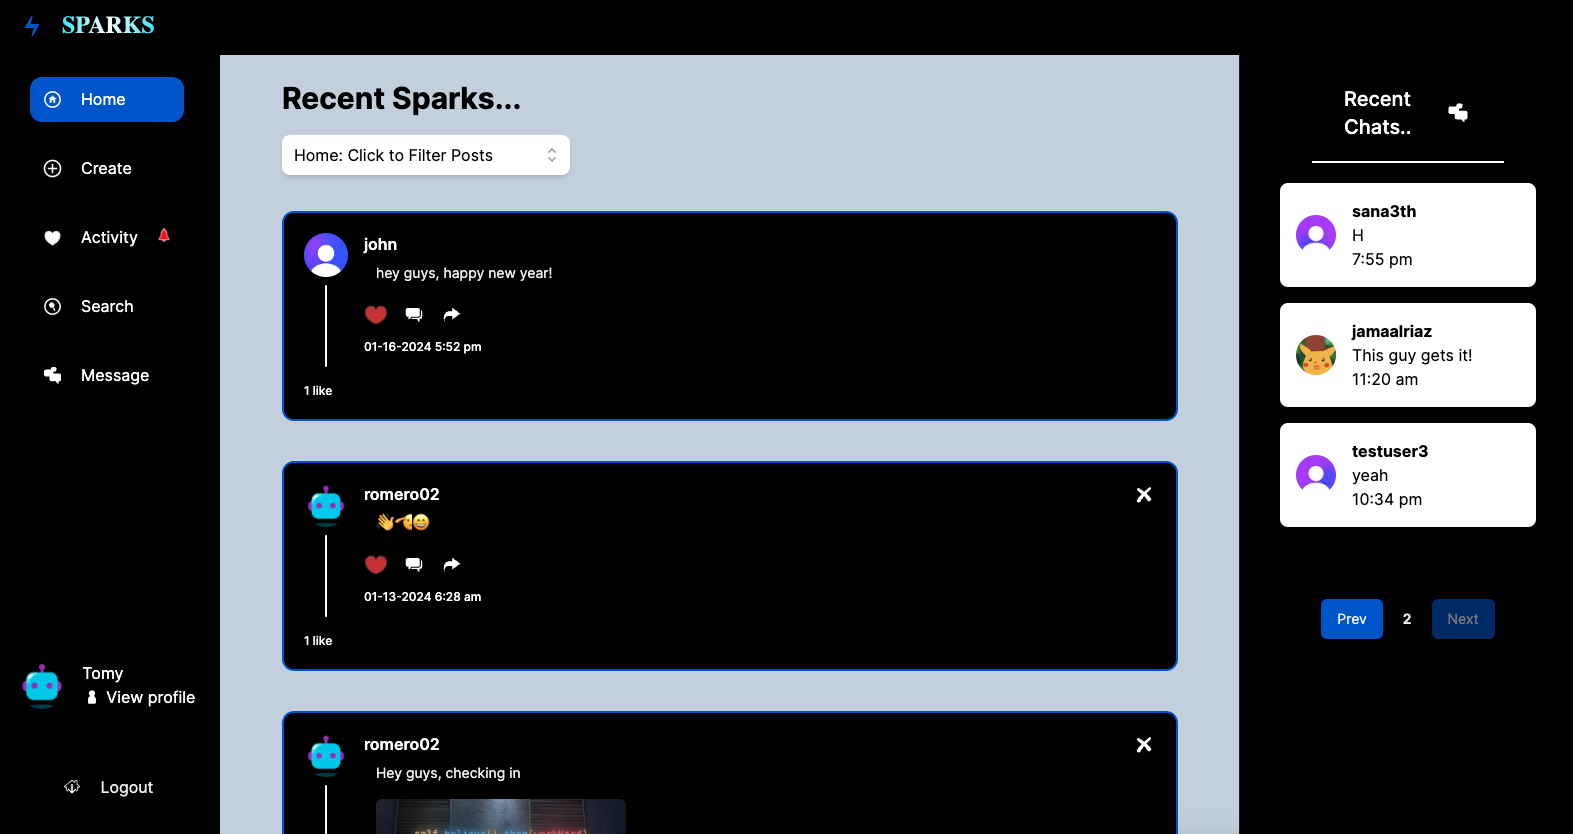
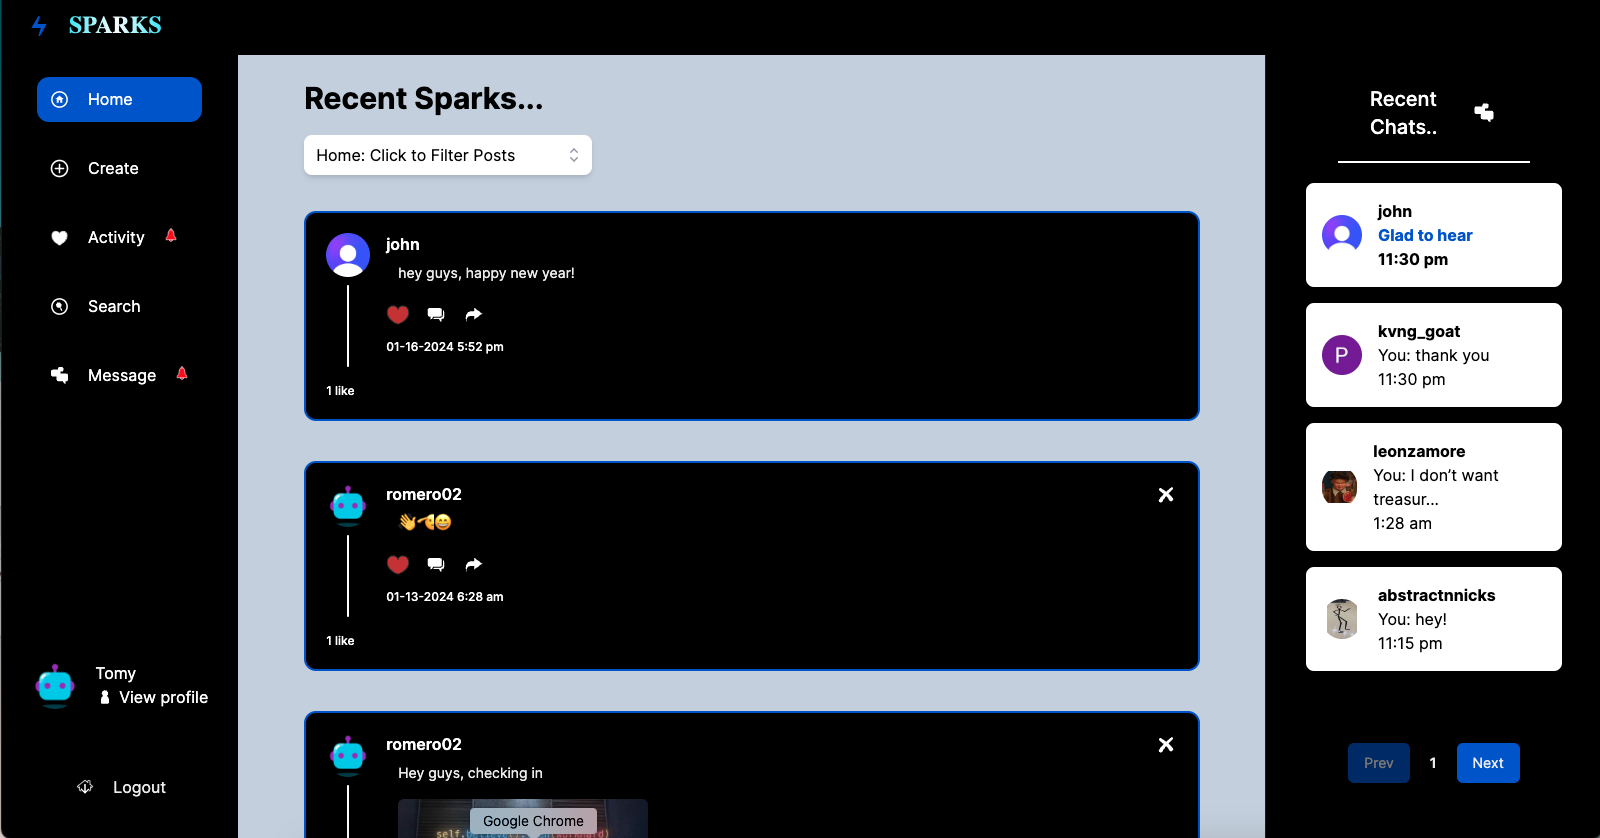
update user status fix

diff --git a/app/(root)/layout.tsx b/app/(root)/layout.tsx
@@ -14,6 +14,7 @@ import RightBar from "@/components/shared/RightBar";
 import { AppProvider } from "@/lib/AppContext";
 import { getClerkUser } from "@/lib/actions/user.actions";
 import Loading from "./loading";
+import { updateOnlineStatus } from "@/lib/actions/chat.actions";
 
 const inter = Inter({ subsets: ["latin"] });
 
@@ -24,6 +25,8 @@ export default async function RootLayout({
 }) {
   const userid = await getClerkUser();
   if (!userid) return null;
+
+  updateOnlineStatus(userid, true)
 
   return (
     userid?.length ? (
